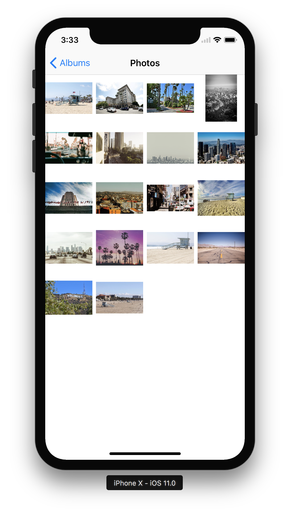
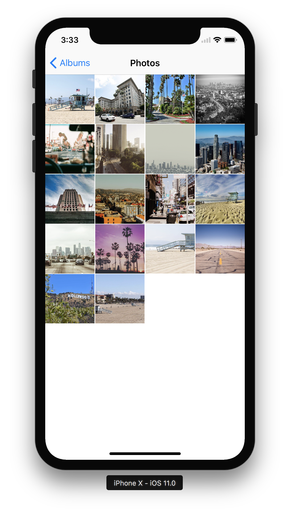
Change Collection View image content mode

Changed region(s): [[0.1552, 0.1248, 0.869, 0.655]]

diff --git a/FacebookPhotoViewer/PhotosViewController.swift b/FacebookPhotoViewer/PhotosViewController.swift
@@ -56,7 +56,7 @@ class PhotosViewController: UIViewController, UICollectionViewDelegate, UICollec
     
     func collectionView(_ collectionView: UICollectionView, layout collectionViewLayout: UICollectionViewLayout, sizeForItemAt indexPath: IndexPath) -> CGSize {
         let cellsAcross: CGFloat = 4
-        let spaceBetweenCells: CGFloat = 5
+        let spaceBetweenCells: CGFloat = 1
         let dimension = collectionView.bounds.width / cellsAcross - spaceBetweenCells
         
         return CGSize(width: dimension, height: dimension)

diff --git a/README.md b/README.md
@@ -1,5 +1,5 @@
 # Facebook Photo Viewer
-iOS app that allows you to view your Facebook's albums and photos.
+iOS app that allows you to view your Facebook albums and photos. Supports both iPhone and iPad.
 
 ![Screenshot 1](/Screenshots/IMG_1.png?raw=true)
 ![Screenshot 2](/Screenshots/IMG_2.png?raw=true)
